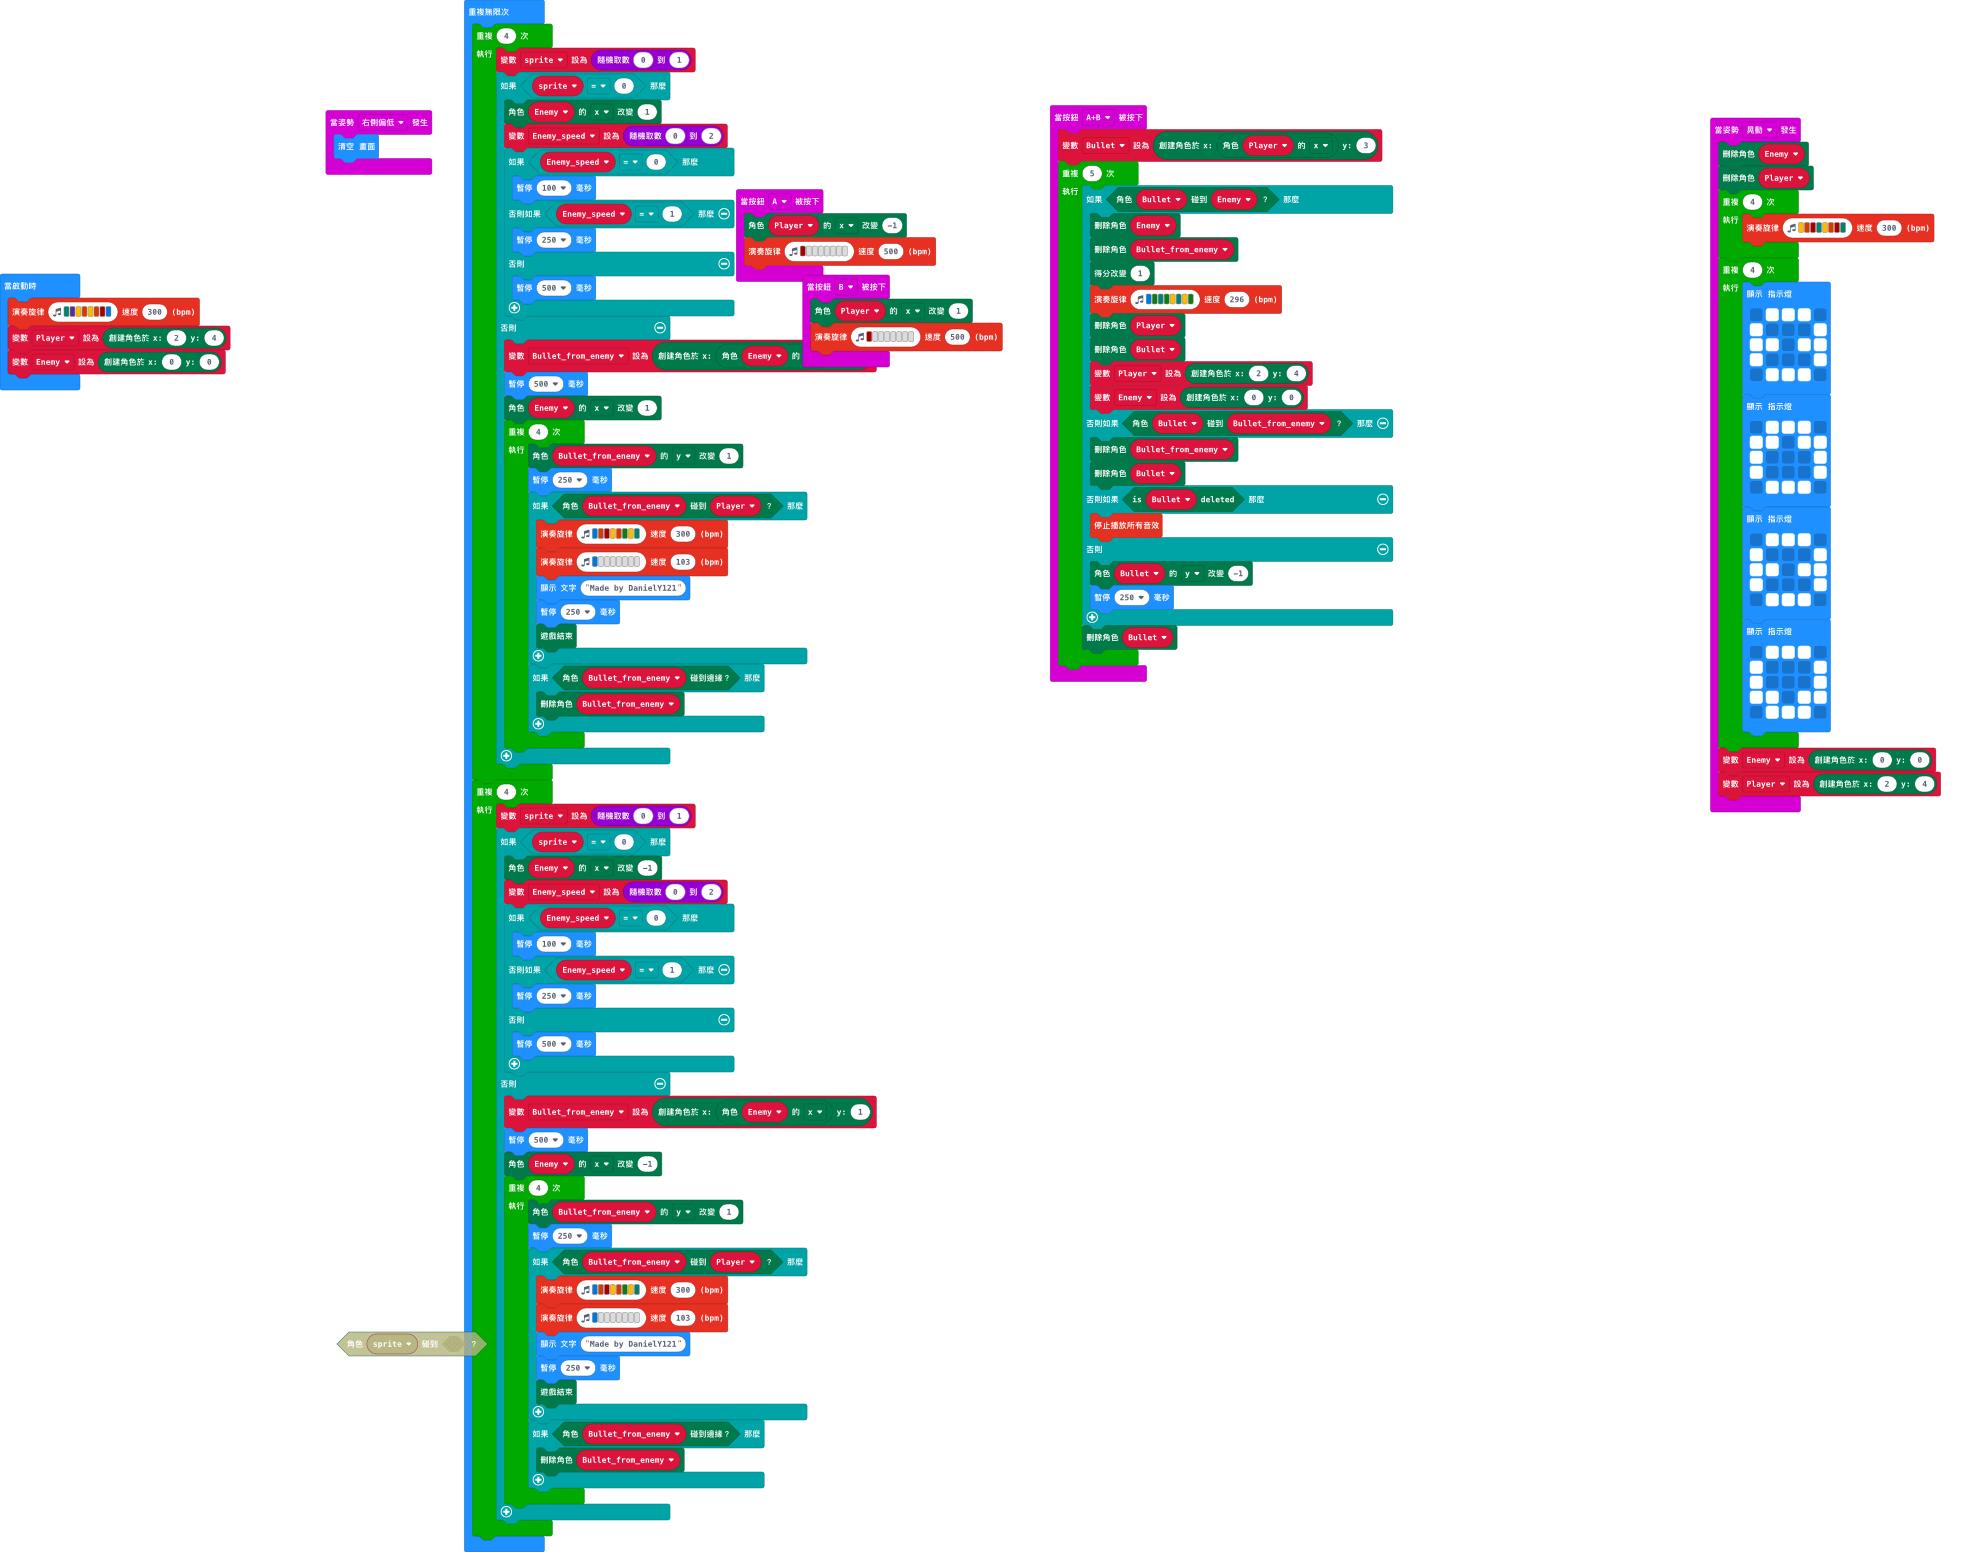
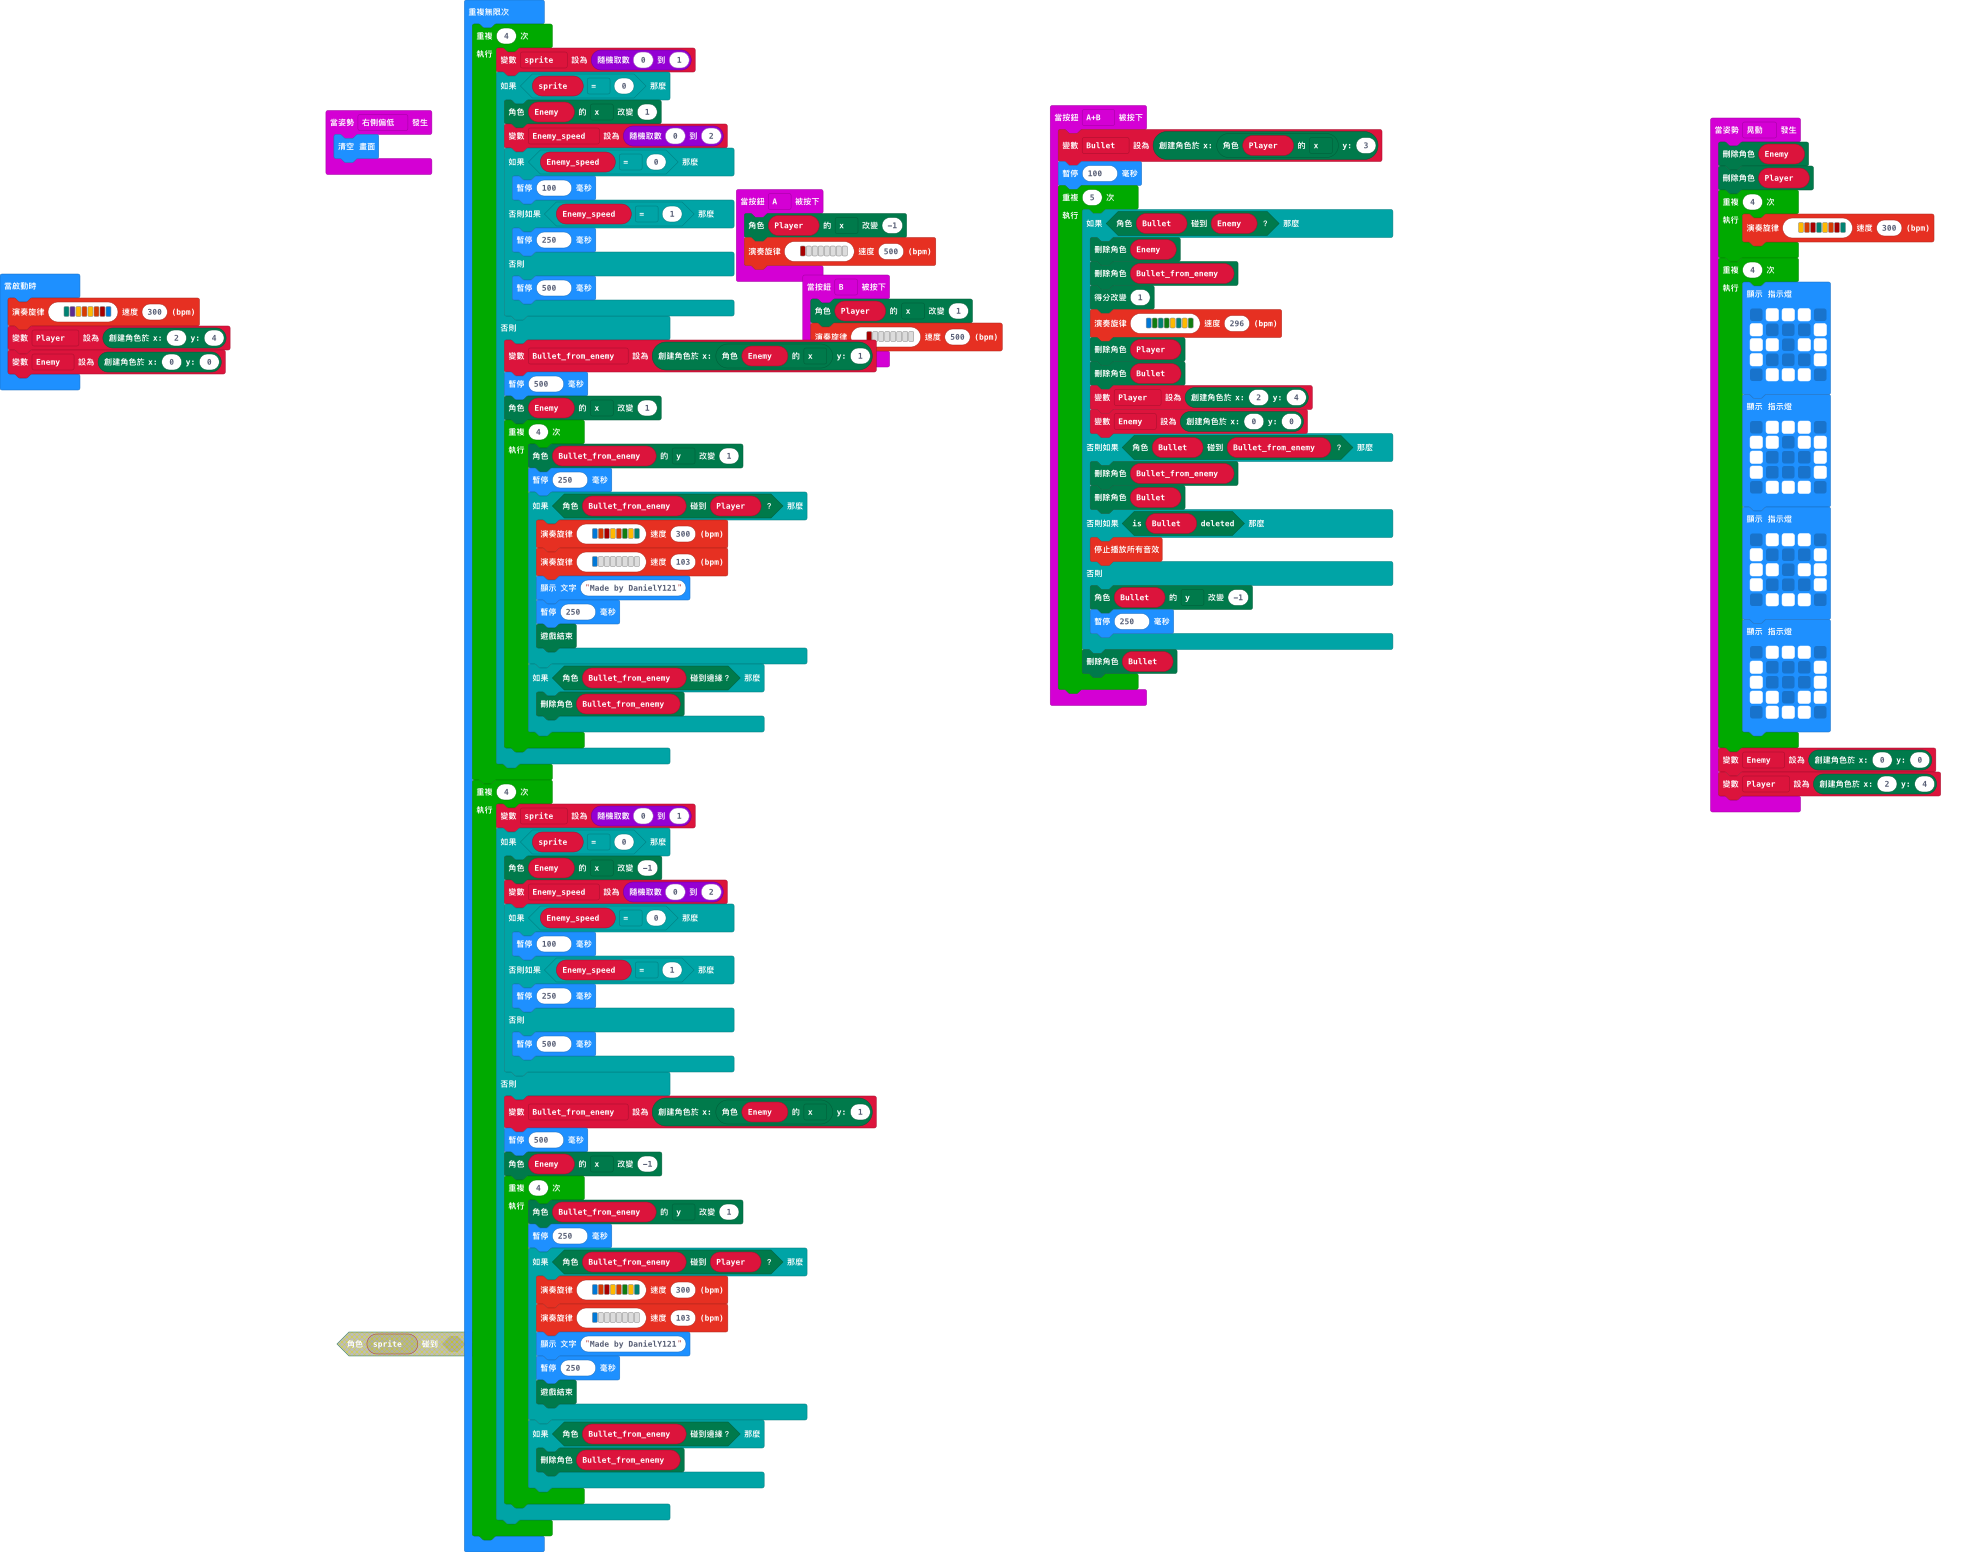
更新 main.blocks, main.ts

Changed region(s): [[0.5307, 0.0928, 0.718, 0.4639], [0.4058, 0.2165, 0.4371, 0.2474]]

diff --git a/main.ts b/main.ts
@@ -43,6 +43,7 @@ input.onGesture(Gesture.Shake, function () {
 })
 input.onButtonPressed(Button.AB, function () {
     Bullet = game.createSprite(Player.get(LedSpriteProperty.X), 3)
+    basic.pause(100)
     for (let index = 0; index < 5; index++) {
         if (Bullet.isTouching(Enemy)) {
             Enemy.delete()
